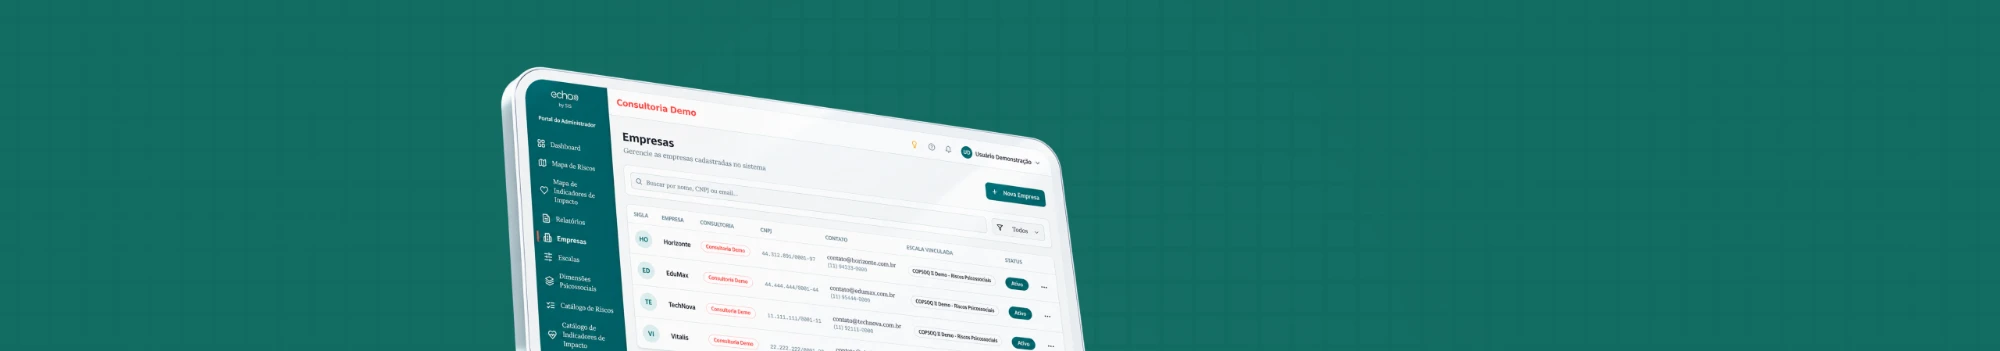
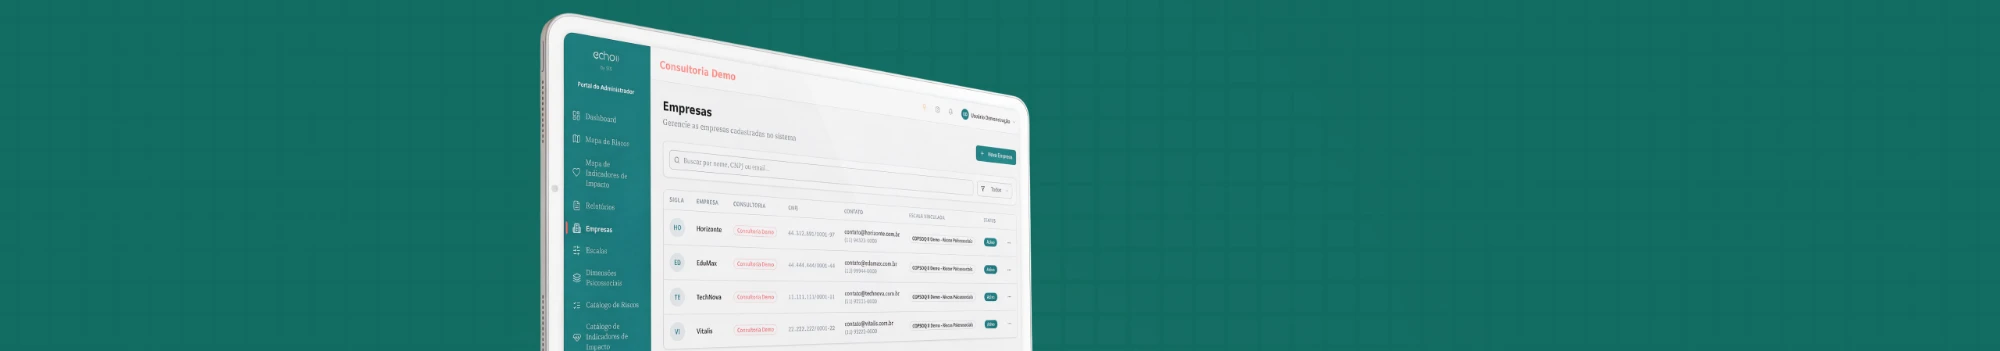
Enlarge trust-card copy, swap climate-cta desktop mockup image
.trust-card__title/.trust-card__text ("Estivemos dos dois lados da
mesa...") were 26px/16px — bumped to 40px/18px per feedback.

Replaced assets/img/climate-cta-bg-desktop.webp with a new version the
user supplied (same 2000x351 native resolution, so no CSS changes
needed — aspect-ratio/positioning still match exactly).

Claude-Session: https://claude.ai/code/session_01CiyMTxVjrXGsaEHonQwbqa

Changed region(s): [[0.248, 0.0285, 0.558, 1.0]]

diff --git a/css/sections.css b/css/sections.css
@@ -731,7 +731,7 @@
 .trust-card__title {
   font-family: var(--font-heading);
   font-weight: 800;
-  font-size: 26px;
+  font-size: 40px;
   line-height: 1.25;
   color: var(--color-white);
   margin-bottom: 12px;
@@ -739,7 +739,7 @@
 
 .trust-card__text {
   font-family: var(--font-body);
-  font-size: 16px;
+  font-size: 18px;
   line-height: 1.5;
   color: #e8fffc;
 }

diff --git a/ASSETS.md b/ASSETS.md
@@ -15,7 +15,7 @@ As fotos e ilustrações abaixo vieram do arquivo do Figma:
 | `assets/img/reuniao-corporativa.webp` | Seção 01 — imagem ao lado do texto |
 | `assets/img/diagnostico-dashboard-mockup.webp` | Painel "Na prática, sua empresa precisa" (seção 01) — imagem de fundo full-bleed enviada diretamente pelo usuário (não veio do arquivo Figma), já com o gradiente teal e o mockup do dashboard embutidos |
 | `assets/img/climate-cta-bg.webp` | Fundo da banda "E se sua empresa também precisa entender o clima?" (seção 02.1) em telas ≤1024px (`<picture>` fallback) — enviada diretamente pelo usuário, já com a textura verde e o mockup do dashboard embutidos (mirrors Figma node 2933:729) |
-| `assets/img/climate-cta-bg-desktop.webp` | Mesma banda, telas ≥1025px (`<picture>` source) — versão enviada pelo usuário para o node Figma 2939:811, recorte mais baixo do mesmo mockup |
+| `assets/img/climate-cta-bg-desktop.webp` | Mesma banda, telas ≥1025px (`<picture>` source) — versão enviada pelo usuário para o node Figma 2939:811, recorte mais baixo do mesmo mockup (substituída depois por uma segunda versão enviada pelo usuário, mesma resolução 2000x351, mockup levemente diferente) |
 | `assets/img/trust-card-bg.webp` | Fundo full-bleed do card "Estivemos dos dois lados da mesa..." (fechamento da seção 05) — enviada diretamente pelo usuário, ícones metálicos + gradiente teal já embutidos |
 | `assets/img/trust-band-bg.webp` | Fundo da seção 06 "Sigilo e LGPD" — mãos segurando um tablet com um escudo, enviada diretamente pelo usuário; título+lede+cards ficam empilhados ACIMA da imagem (fluxo normal, não sobrepostos), e a faixa de gradiente vazio no topo do arquivo original é recortada via `object-fit:cover` (sem esticar, só corta — não perde qualidade) para o tablet ficar logo abaixo do texto em qualquer largura |
 | `assets/img/how-steps/how-step-01-identificar.webp` … `how-step-05-acompanhar.webp` | Ícones dos 5 passos da seção 03 — "Como funciona" |
